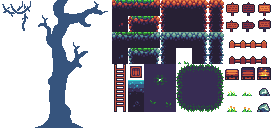
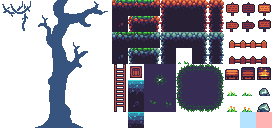
Event layer, event collidables, run+jump boost

Changed region(s): [[0.8824, 0.875, 1.0, 1.0], [0.4706, 0.875, 0.5294, 1.0], [0.4706, 0.6875, 0.5294, 0.75]]

diff --git a/maps/Mountain.tsx b/maps/Mountain.tsx
@@ -193,6 +193,10 @@
   <properties>
    <property name="collidable" type="bool" value="false"/>
   </properties>
+  <animation>
+   <frame tileid="93" duration="1000"/>
+   <frame tileid="127" duration="1000"/>
+  </animation>
  </tile>
  <tile id="63">
   <properties>
@@ -368,5 +372,11 @@
   <properties>
    <property name="collidable" type="bool" value="true"/>
   </properties>
+ </tile>
+ <tile id="128">
+  <animation>
+   <frame tileid="93" duration="1000"/>
+   <frame tileid="127" duration="1000"/>
+  </animation>
  </tile>
 </tileset>
